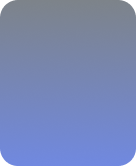
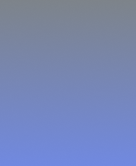
Replaced blue gradient svg

diff --git a/mobile-app/shared/components/CurrentQueues.tsx b/mobile-app/shared/components/CurrentQueues.tsx
@@ -1,11 +1,14 @@
 import React from 'react';
-import { Text, TouchableOpacity } from 'react-native';
+import { 
+  Text, 
+  TouchableOpacity, 
+  View 
+} from 'react-native';
 import Image from 'react-native-remote-svg';
-import { View } from 'react-native';  
-import gradient from '@/assets/images/Gradient.png';
 import { FontAwesome5 } from '@expo/vector-icons';
-import arrow from '@/assets/images/arrow-up.svg';
 import { CurrentQueuesProps } from '@/types';
+import gradient from '@/assets/images/Gradient.png';
+import InclineArrow from '@/assets/images/arrow-up.svg';
 
 export default function CurrentQueues(props: CurrentQueuesProps) {
   const { image, name, people, time, isLeave, isJoin, isCurrent, isPopular } = props;
@@ -18,17 +21,29 @@ export default function CurrentQueues(props: CurrentQueuesProps) {
               {isCurrent ? (
                 <FontAwesome5 name="hourglass-start" size={50} color="#D9D9D9" />
               ) : isPopular ? (
-                <Image source={arrow} />
+                <InclineArrow width={50} />
               ) : null}
             </View>
-            <Image source={gradient} className='absolute z-10 self-center w-full h-full' />
-            <Image source={image} className='w-full h-full rounded-[18px]' />
+            <Image 
+              source={gradient} 
+              className='absolute z-10 self-center w-full h-full rounded-l-[18px]' 
+            />
+            <Image 
+              source={image} 
+              className='w-full h-full rounded-l-[18px]' 
+            />
           </View>
           <View className='justify-around w-3/5 pl-2'>
-            <Text className='text-2xl font-black text-white'> {name} </Text>
+            <Text className='text-xl font-black text-white'>
+              {name}
+            </Text>
             <View>
-              <Text className='text-[#D9D9D9] text-base font-medium'> {String(people)} people remaining </Text>
-              <Text className='text-[#D9D9D9] text-xs'> ~{String(time)} min </Text>
+              <Text className='text-[#D9D9D9] text-sm font-medium'>
+                {String(people)} people remaining 
+              </Text>
+              <Text className='text-[#D9D9D9] text-xs'> 
+                ~{String(time)} min
+              </Text>
             </View>
             {isLeave ? (
               <TouchableOpacity className='items-center self-center justify-center w-9/12 mr-2 bg-red-700 rounded-lg h-7'>

diff --git a/mobile-app/components/CurrentQueuesList.tsx b/mobile-app/components/CurrentQueuesList.tsx
@@ -10,7 +10,15 @@ export default function CurrentQueuesList() {
   const carouselWidth = windowWidth * 0.85; // 85% of the screen width
 
   const renderItem = ({ item, index }: { item: CurrentQueuesProps , index: number }) => (
-    <CurrentQueues image={item.image} name={item.name} people={item.people} time={item.time} key={index} isLeave isCurrent />
+    <CurrentQueues 
+      image={item.image} 
+      name={item.name} 
+      people={item.people} 
+      time={item.time} 
+      key={index} 
+      isLeave 
+      isCurrent 
+    />
   );
 
   return (
